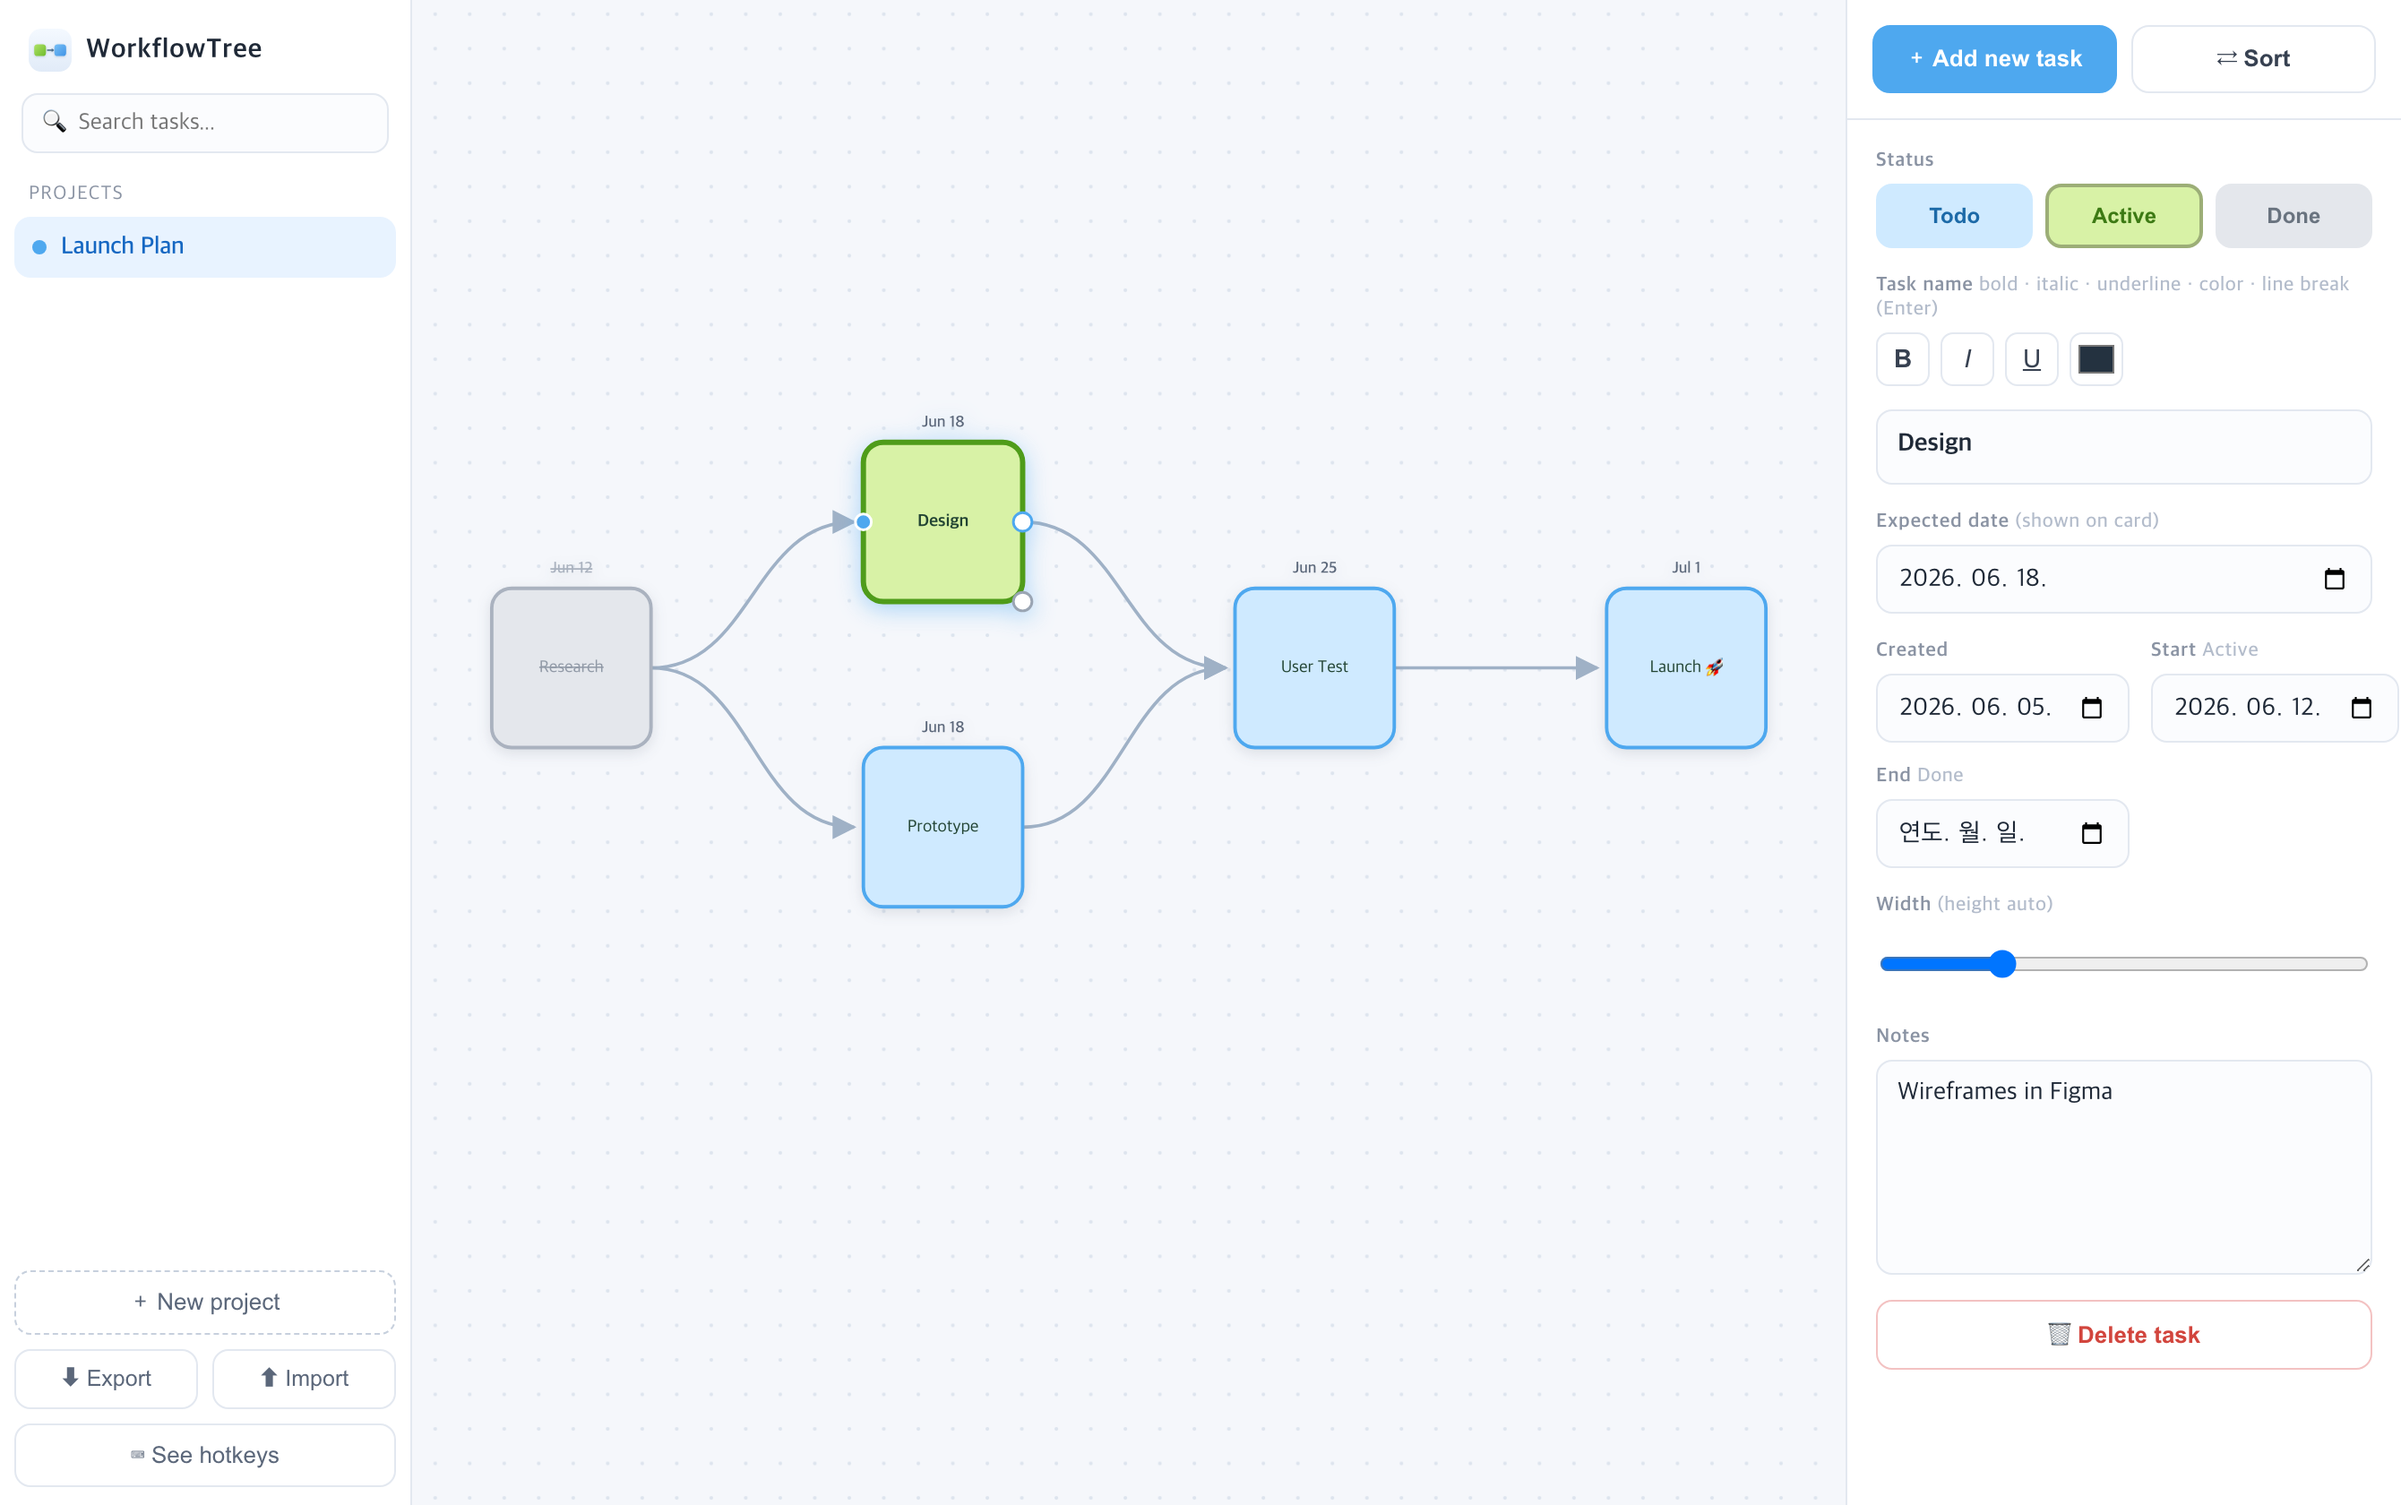
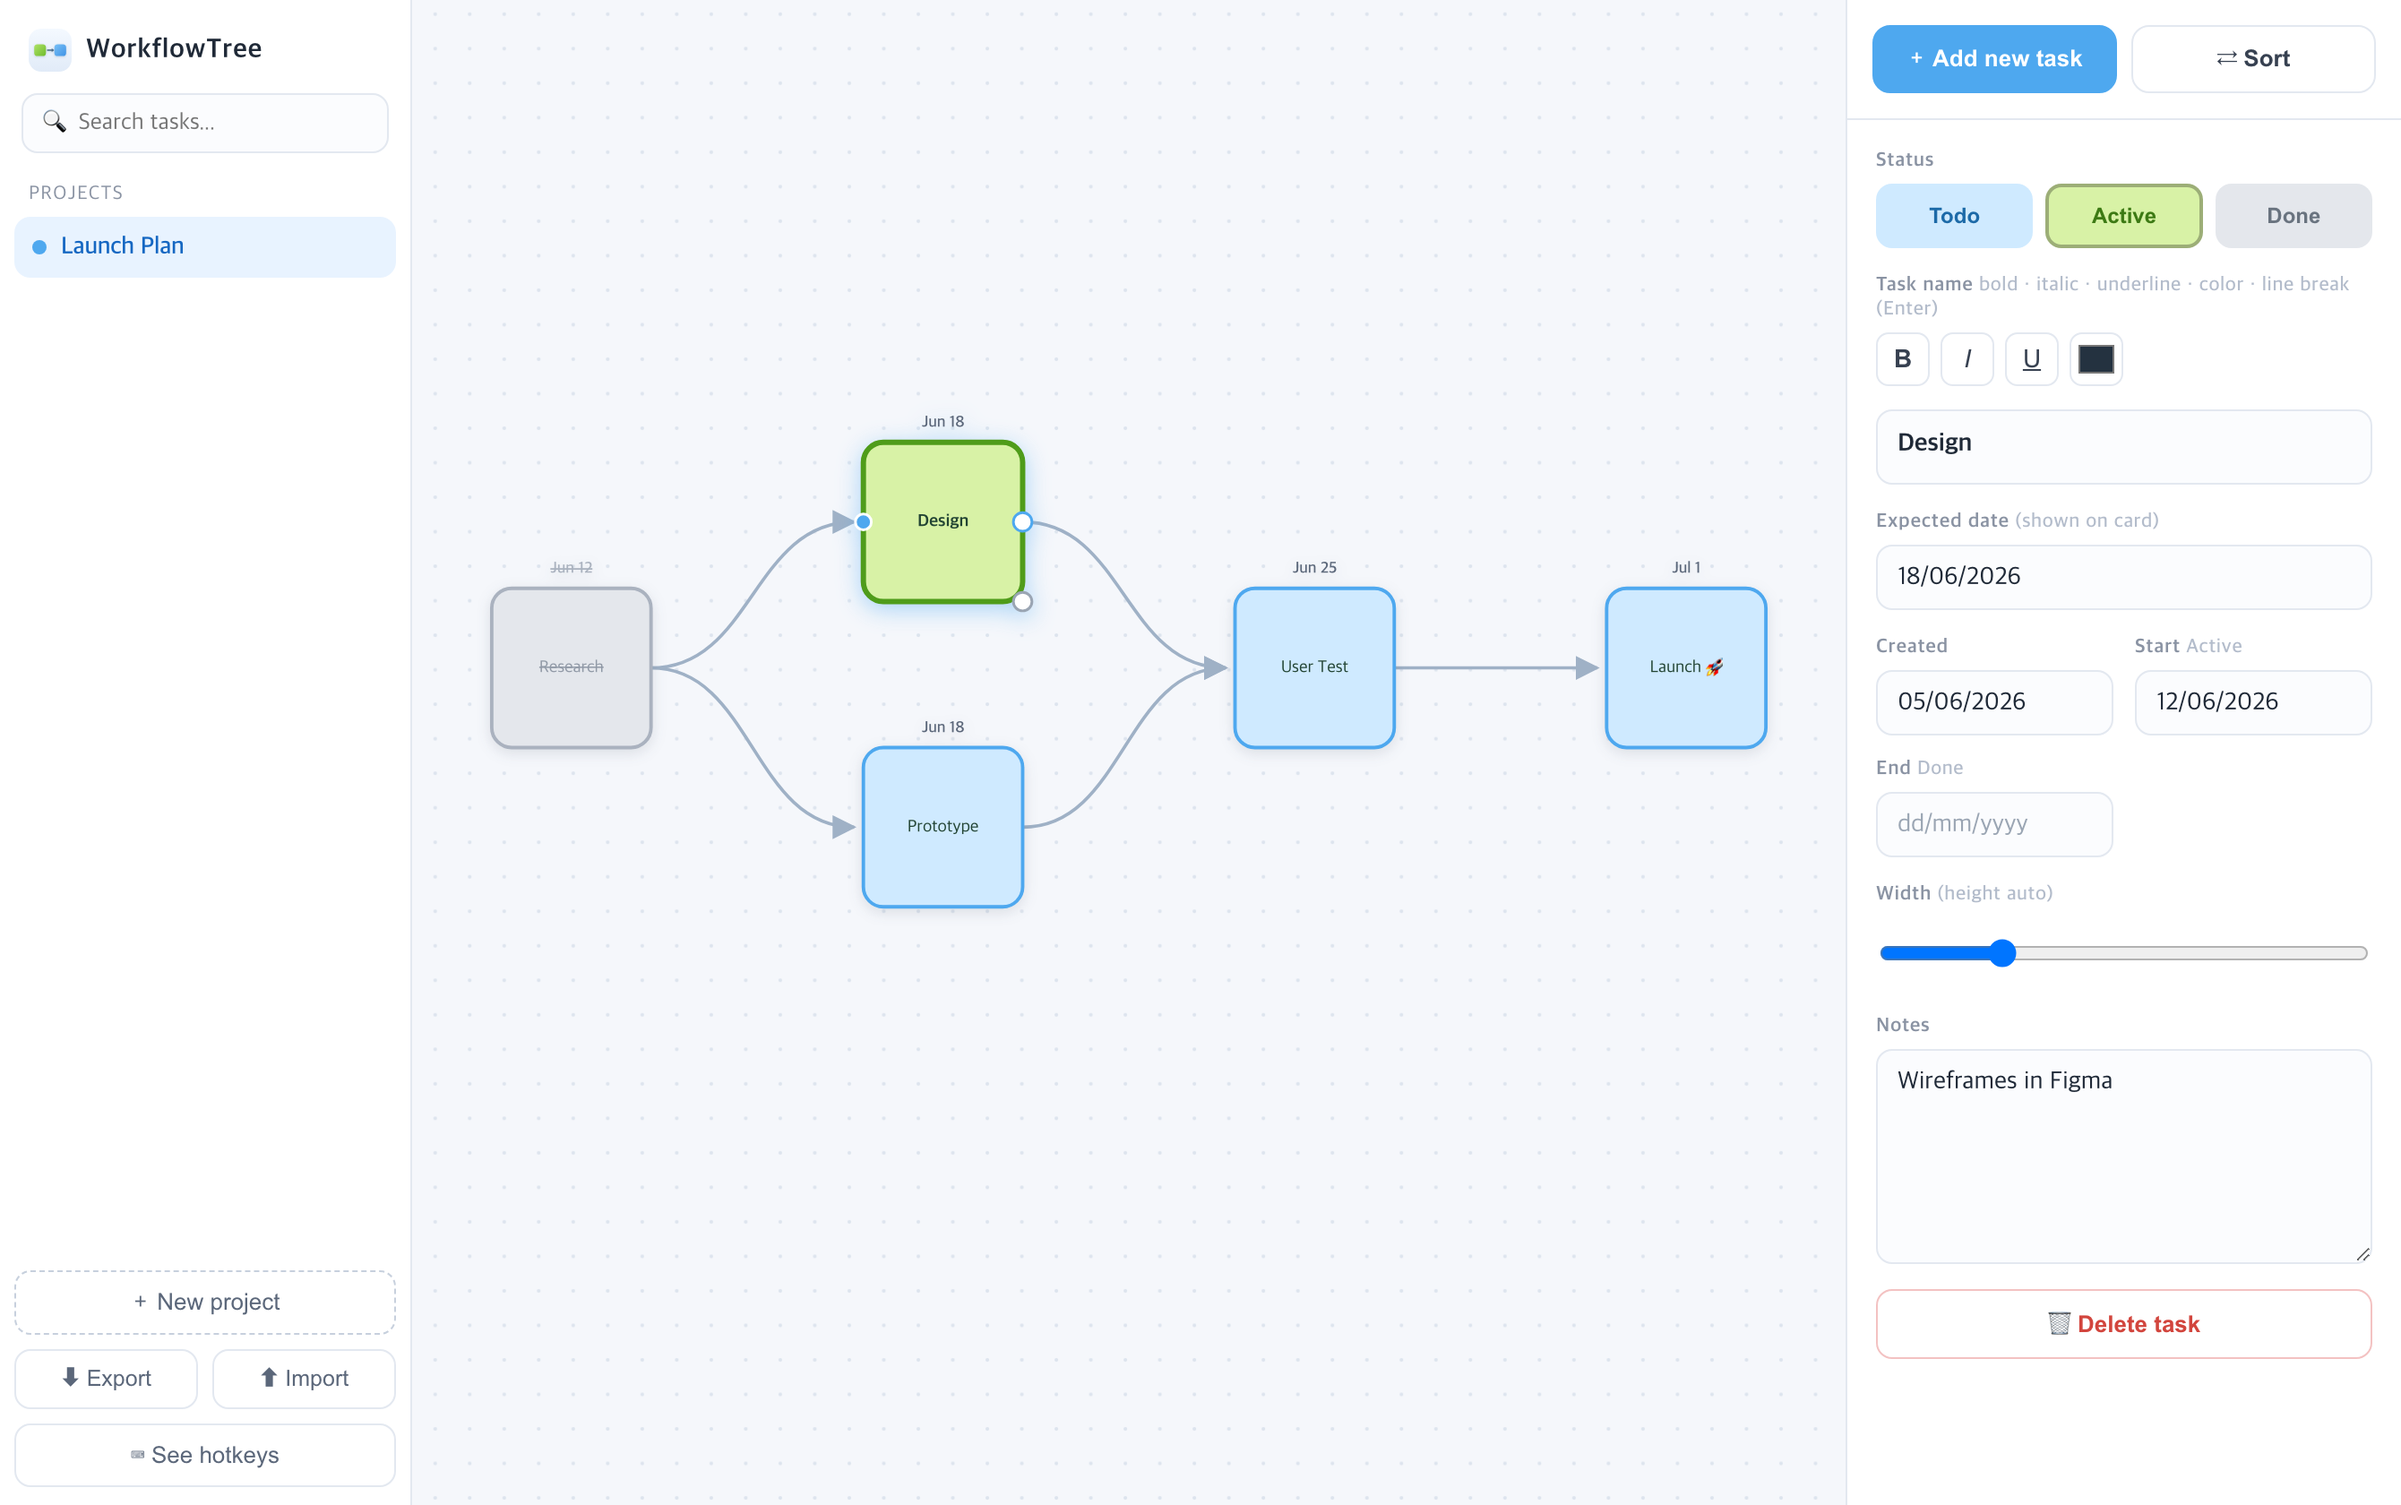
app: force en-GB locale so date inputs are English (dd/mm/yyyy)
Native app sets AppleLanguages=en-GB so <input type="date"> no longer
follows the Korean system locale. Screenshot updated to match.

diff --git a/native/main.m b/native/main.m
@@ -173,6 +173,10 @@ static NSString *mimeType(NSString *ext) {
 
 int main(int argc, const char *argv[]) {
     @autoreleasepool {
+        // Force English (UK) locale so <input type="date"> shows dd/mm/yyyy in English
+        // instead of following the system (e.g. Korean "연도. 월. 일.").
+        [[NSUserDefaults standardUserDefaults] setObject:@[@"en-GB"] forKey:@"AppleLanguages"];
+
         NSApplication *app = [NSApplication sharedApplication];
         [app setActivationPolicy:NSApplicationActivationPolicyRegular];
         AppDelegate *del = [AppDelegate new];
